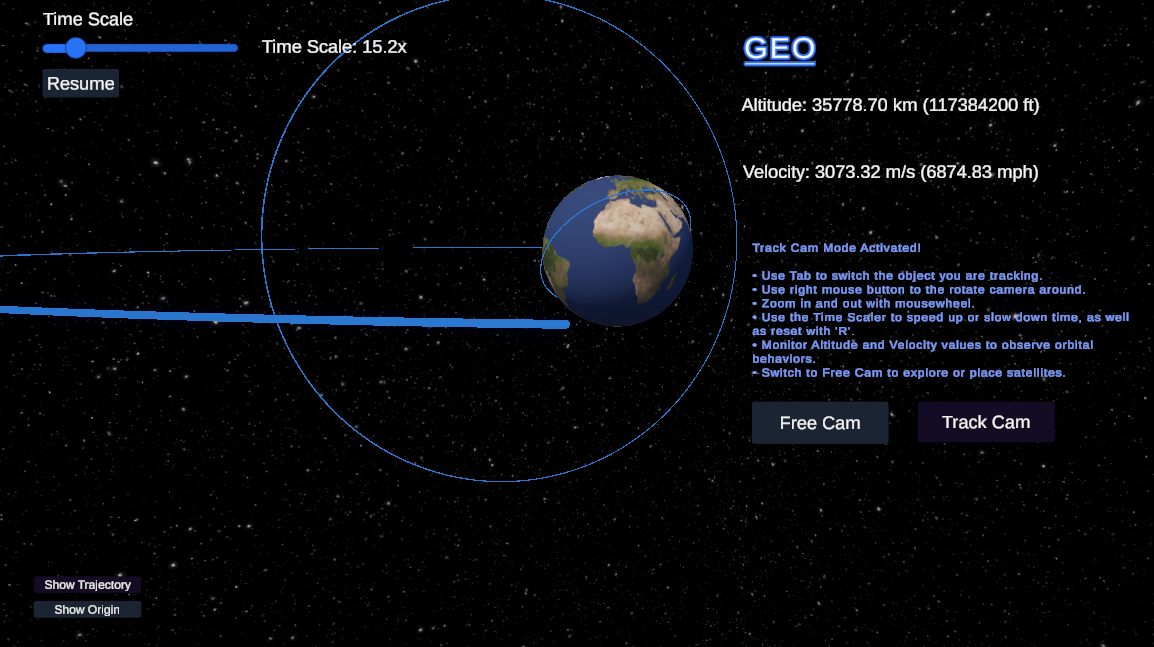
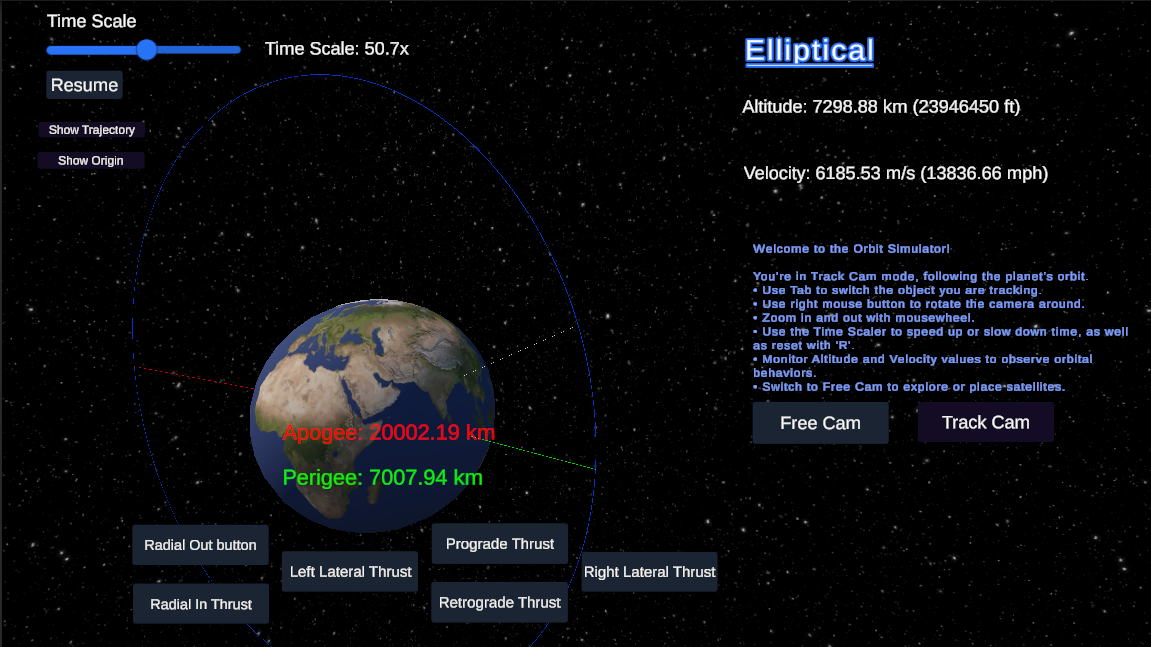
Two updated images for readme

diff --git a/Assets/Scripts/UIManager.cs b/Assets/Scripts/UIManager.cs
@@ -15,6 +15,8 @@ public class UIManager : MonoBehaviour
     [Header("Panels")]
     public GameObject objectPlacementPanel; // UI panel for object placement controls.
     public GameObject panel; // General UI panel for velocity and altitude display.
+    public GameObject thrustButtons;
+    public GameObject apogeePerigeePanel;
 
     [Header("UI")]
     public TMP_InputField nameInputField;
@@ -69,6 +71,8 @@ public class UIManager : MonoBehaviour
         ShowPanel(false);
         SetButtonState(freeCamButton, true);
         SetButtonState(trackCamButton, false);
+        ShowThrustButtonsPanel(false);
+        ShowApogeePerigeePanel(false);
 
         if (velocityInputField != null)
         {
@@ -104,6 +108,8 @@ public class UIManager : MonoBehaviour
         ShowPanel(true);
         SetButtonState(freeCamButton, false);
         SetButtonState(trackCamButton, true);
+        ShowThrustButtonsPanel(true);
+        ShowApogeePerigeePanel(true);
 
         if (velocityInputField != null)
         {
@@ -132,6 +138,16 @@ public class UIManager : MonoBehaviour
     private void ShowObjectPlacementPanel(bool show)
     {
         objectPlacementPanel.SetActive(show);
+    }
+
+    private void ShowThrustButtonsPanel(bool show)
+    {
+        thrustButtons.SetActive(show);
+    }
+
+    private void ShowApogeePerigeePanel(bool show)
+    {
+        apogeePerigeePanel.SetActive(show);
     }
 
     /**
